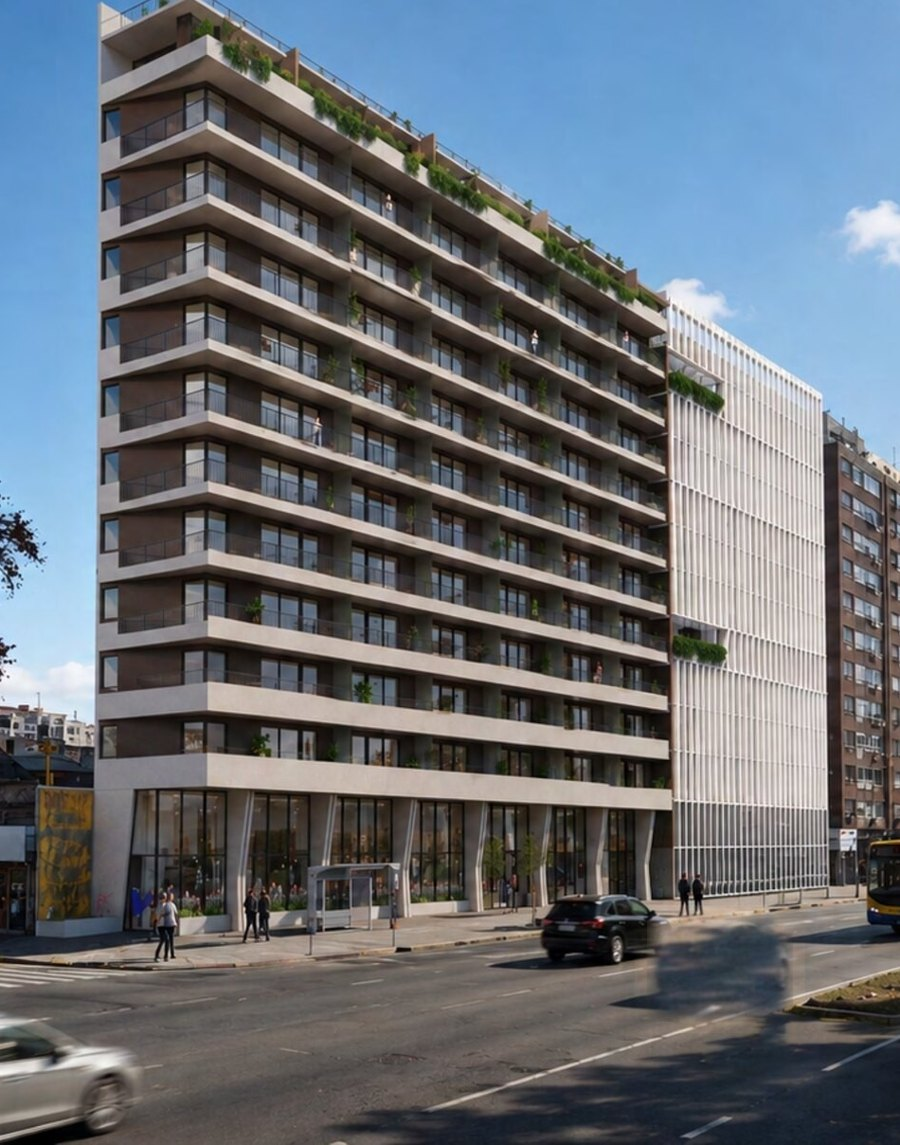
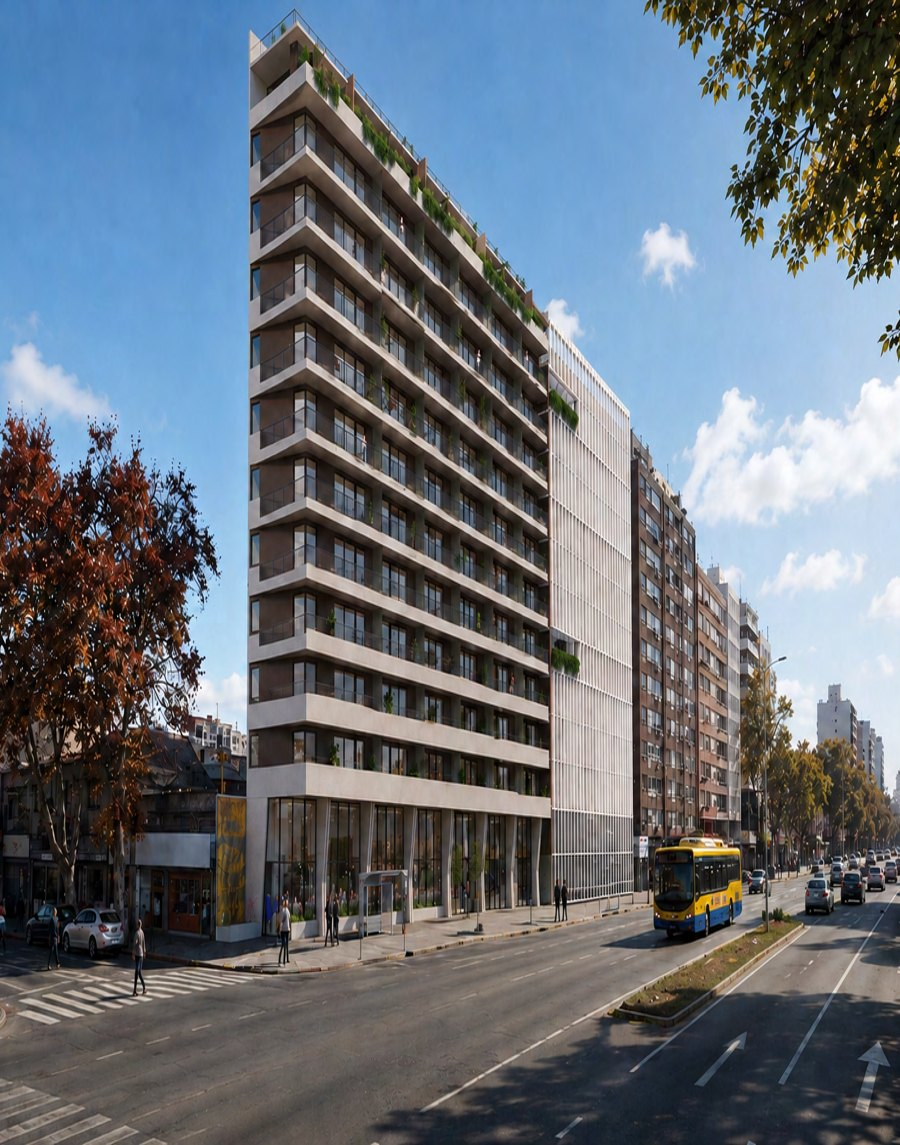
cambio

diff --git a/index.html b/index.html
@@ -25,6 +25,9 @@
               <li><a href="#proyecto" class="dropdown__link">Sobre AVIT</a></li>
               <li><a href="#ubicacion" class="dropdown__link">Ubicación</a></li>
               <li><a href="#arquitectura" class="dropdown__link">Arquitectura</a></li>
+              <li><a href="#hogar" class="dropdown__link">Hogar inteligente</a></li>
+              <li><a href="#sostenibilidad" class="dropdown__link">Certificación MAS</a></li>
+              <li><a href="#documentacion" class="dropdown__link">Plantas y precios</a></li>
             </ul>
           </li>
           <li class="nav__item nav__item--drop">
@@ -78,17 +81,18 @@
       <div class="reveal reveal--delay-1">
         <p class="tagline">El Proyecto</p>
         <h2 class="section__title">AVIT nace en uno de los principales corredores urbanos de Montevideo.</h2>
-        <p>Ubicado en la intersección de <strong>Avenida Italia y Francisco Simón</strong>, AVIT nace como una propuesta residencial contemporánea destinada a quienes buscan vivir o invertir en uno de los principales corredores urbanos de Montevideo.</p>
-        <p>El proyecto combina diseño arquitectónico moderno, espacios comunes de alto nivel, locales comerciales y excelentes conexiones con los principales centros educativos, sanitarios y comerciales de la ciudad.</p>
-        <p>Con <strong>43 metros de frente sobre Avenida Italia</strong>, maximiza su presencia urbana con una mayor cantidad de unidades que disfrutan de vistas abiertas y una conexión privilegiada con el entorno.</p>
-        <p><strong>Finalización de obra 12/28.</strong></p>
+        <p>Ubicado en la intersección de Avenida Italia y Francisco Simón, AVIT nace como una propuesta residencial contemporánea para quienes buscan vivir o invertir en uno de los principales corredores urbanos de Montevideo.</p>
+        <p>El proyecto combina diseño arquitectónico moderno, espacios comunes de alto nivel, cafetería y una ubicación estratégica, con excelentes conexiones a centros educativos, sanitarios y comerciales que favorecen su demanda y facilidad de alquiler.</p>
+        <p>Desarrollado por Foquier Desarrollos, AVIT se apoya en una trayectoria orientada a la calidad constructiva, la planificación integral y la generación de valor sostenible para propietarios e inversores.</p>
+        <p>Con 43 metros de frente sobre Avenida Italia, maximiza su presencia urbana y ofrece una mayor cantidad de unidades con vistas abiertas y una conexión privilegiada con el entorno.</p>
+        <p>Finalización de obra 12/28.</p>
       </div>
     </div>
 
     <div class="container stats reveal">
       <div class="stat"><span class="stat__num" data-count="43">0</span><span class="stat__suffix">m</span><p class="stat__label">de frente sobre Av. Italia</p></div>
       <div class="stat"><span class="stat__num" data-count="13">0</span><span class="stat__suffix">niveles</span><p class="stat__label">con rooftop de amenities</p></div>
-      <div class="stat"><span class="stat__num" data-count="10">0</span><span class="stat__suffix">+</span><p class="stat__label">amenities de alto nivel</p></div>
+      <div class="stat"><span class="stat__num" data-count="11">0</span><span class="stat__suffix">+</span><p class="stat__label">amenities de alto nivel</p></div>
       <div class="stat"><span class="stat__num stat__num--text">12/28</span><p class="stat__label">finalización de obra</p></div>
     </div>
   </section>
@@ -104,17 +108,16 @@
   <section class="section section--teal" id="ubicacion">
     <div class="container grid-2">
       <figure class="map reveal">
-        <iframe src="https://www.google.com/maps?q=Av.+Italia+%26+Dr.+Francisco+Sim%C3%B3n,+Montevideo,+Uruguay&z=17&output=embed" title="Ubicación de AVIT: Av. Italia y Francisco Simón, Montevideo" loading="lazy" referrerpolicy="no-referrer-when-downgrade" allowfullscreen></iframe>
+        <iframe src="https://www.google.com/maps?q=-34.890420,-56.148870&z=18&output=embed" title="Ubicación de AVIT: Av. Italia y Francisco Simón, Montevideo" loading="lazy" referrerpolicy="no-referrer-when-downgrade" allowfullscreen></iframe>
       </figure>
       <div class="reveal reveal--delay-1">
         <h2 class="section__title section__title--onteal">Una ubicación estratégica que se convierte en uno de los grandes valores del proyecto.</h2>
-        <p><strong>AVIT</strong> se encuentra sobre Avenida Italia, uno de los ejes urbanos más importantes de Montevideo, con acceso inmediato a:</p>
+        <p>AVIT se encuentra en La Blanqueada / Parque Batlle sobre Avenida Italia, uno de los ejes urbanos más importantes de Montevideo, con acceso inmediato a:</p>
         <ul class="squares squares--onteal">
           <li>Parque Batlle</li>
-          <li>Tres Cruces</li>
           <li>Centros universitarios</li>
           <li>Hospitales y centros médicos</li>
-          <li>Terminales de transporte</li>
+          <li>Terminal Tres Cruces</li>
           <li>Centros comerciales</li>
           <li>Zona de oficinas</li>
         </ul>
@@ -146,6 +149,23 @@
     </div>
   </section>
 
+  <!-- ===== HOGAR INTELIGENTE ===== -->
+  <section class="section section--soft" id="hogar">
+    <div class="container grid-2 grid-2--media-first">
+      <figure class="media reveal">
+        <img src="assets/img/hogar-inteligente.jpg" alt="Cerradura electrónica inteligente en una unidad de AVIT" loading="lazy">
+      </figure>
+      <div class="reveal reveal--delay-1">
+        <p class="tagline">Hogar inteligente</p>
+        <h2 class="section__title">Un hogar inteligente diseñado para brindar mayor confort, seguridad y eficiencia a la vida cotidiana.</h2>
+        <p>Las unidades contarán con tecnología Wi-Fi para controlar la iluminación LED y crear diferentes escenas según las preferencias de cada residente, además de climatización mediante equipos de aire acondicionado Inverter.</p>
+        <p>Las unidades dispondrán de cerraduras electrónicas inteligentes con acceso por clave, huella, llave o aplicación, permitiendo gestionar los ingresos de forma práctica y segura.</p>
+        <p>El edificio contará con portería virtual y videovigilancia las 24 horas, los 365 días del año. El sistema incluirá monitoreo de accesos, atención remota, llegada asistida por cámaras, gestión de encomiendas y respuesta ante alertas.</p>
+        <p>Una propuesta tecnológica integral que combina comodidad, control y seguridad para disfrutar de una experiencia residencial más conectada.</p>
+      </div>
+    </div>
+  </section>
+
   <!-- ===== AMENITIES ===== -->
   <section class="section section--soft" id="amenities">
     <div class="container">
@@ -164,17 +184,18 @@
         <button class="amenity amenity--clickable reveal" data-img="assets/img/terraza.jpg" data-caption="Sky Plaza · Rooftop nivel 13"><img src="assets/icons/sky-plaza.png" alt="" loading="lazy"><p>Sky Plaza</p><span class="amenity__hint">Ver espacio</span></button>
         <button class="amenity amenity--clickable reveal" data-img="assets/img/cafeteria.jpg" data-caption="Cafetería · Planta baja"><img src="assets/icons/cafeteria.png" alt="" loading="lazy"><p>Cafetería</p><span class="amenity__hint">Ver espacio</span></button>
         <div class="amenity reveal"><img src="assets/icons/sala-juegos.png" alt="" loading="lazy"><p>Sala de Juegos</p></div>
+        <div class="amenity reveal"><img src="assets/icons/spa.png" alt="" loading="lazy"><p>SPA</p></div>
       </div>
 
       <div class="grid-2 amenities-text">
         <div class="reveal">
           <h3 class="section__subtitle">Todo lo que necesitás para vivir con más comodidad, conexión y disfrute.</h3>
           <p>AVIT incorpora una propuesta integral de amenities pensada para ampliar la experiencia de vivir el edificio y convertir sus espacios comunes en una extensión del hogar.</p>
-          <p>En planta baja, la <strong>cafetería integrada</strong>, el <strong>gimnasio interior equipado</strong>, los <strong>garajes</strong> y el <strong>bike parking</strong> acompañan la rutina diaria con comodidad, practicidad y conexión con la ciudad.</p>
+          <p>En planta baja, la cafetería integrada, el gimnasio interior equipado, los garajes y el bike parking acompañan la rutina diaria con comodidad, practicidad y conexión con la ciudad.</p>
         </div>
         <div class="reveal reveal--delay-1">
-          <p>En el <strong>nivel 1</strong>, el cowork y la sala de juegos ofrecen espacios flexibles para trabajar, estudiar, reunirse o disfrutar de momentos de entretenimiento.</p>
-          <p>En el <strong>nivel 13</strong>, el rooftop reúne dos barbacoas equipadas, laundry, pet shower, Sky Plaza y gimnasio exterior, generando un entorno ideal para compartir, entrenar, relajarse y disfrutar de vistas abiertas. Una propuesta completa que suma bienestar, funcionalidad y valor al proyecto.</p>
+          <p>En el nivel 1, el cowork y la sala de juegos ofrecen espacios flexibles para trabajar, estudiar, reunirse o disfrutar de momentos de entretenimiento.</p>
+          <p>En el nivel 13, el rooftop reúne dos barbacoas equipadas, laundry, pet shower, SPA, espacio Sky Plaza y gimnasio exterior, generando un entorno ideal para compartir, entrenar, relajarse y disfrutar de vistas abiertas. Una propuesta completa que suma bienestar, funcionalidad y valor al proyecto.</p>
         </div>
       </div>
     </div>
@@ -198,6 +219,23 @@
     </div>
   </section>
 
+  <!-- ===== CERTIFICACION MAS ===== -->
+  <section class="section" id="sostenibilidad">
+    <div class="container grid-2">
+      <div class="reveal">
+        <p class="tagline">Sostenibilidad</p>
+        <h2 class="section__title">Certificación MAS: sostenibilidad que agrega valor, diseño, eficiencia y bienestar.</h2>
+        <p>En el marco de su política de Responsabilidad Social Empresarial, Foquier Desarrollos impulsa para AVIT la certificación MAS (Medio Ambiente, Arquitectura y Sociedad) otorgada por el LATU.</p>
+        <p>Esta certificación promueve buenas prácticas en las etapas de diseño y construcción, mediante metodologías basadas en estándares internacionales y adaptadas al mercado inmobiliario uruguayo. Su aplicación busca superar la normativa vigente en eficiencia energética, ahorro de agua, bienestar, gestión e innovación.</p>
+        <p>Para propietarios e inversores, la certificación MAS representa una mayor valorización del activo y mejores condiciones de venta o alquiler. Además, contribuye a reducir costos operativos y gastos comunes, creando espacios más saludables, eficientes y sostenibles.</p>
+        <p><a href="https://certificacionmas.com.uy/" target="_blank" rel="noopener">Conocé más sobre la certificación MAS →</a></p>
+      </div>
+      <figure class="media reveal reveal--delay-1">
+        <img src="assets/img/certificacion-mas.jpg" alt="Fachada de AVIT sobre Avenida Italia — Certificación MAS" loading="lazy">
+      </figure>
+    </div>
+  </section>
+
   <!-- ===== INVERSION ===== -->
   <section class="section" id="inversion">
     <div class="container">
@@ -210,7 +248,7 @@
         <article class="benefit reveal"><h3>Exoneración de ITP</h3><p>Ahorro directo del 2% del valor catastral en la primera compra.</p></article>
         <article class="benefit reveal reveal--delay-1"><h3>Impuesto al Patrimonio</h3><p>Exento por una década entera.</p></article>
         <article class="benefit reveal reveal--delay-2"><h3>Exoneración de IRPF / IRNR</h3><p>Del 100% si el apartamento se destina al mercado de alquileres.</p></article>
-        <article class="benefit reveal reveal--delay-3"><h3>Exoneración del IVA</h3><p>Reducción o eliminación en la primera venta de las unidades.</p></article>
+        <article class="benefit reveal reveal--delay-3"><h3>Exoneración del IVA</h3><p>Eliminación en la primera venta de las unidades.</p></article>
       </div>
     </div>
   </section>
@@ -232,9 +270,10 @@
       <div class="reveal">
         <p class="tagline">Sobre Nosotros</p>
         <h2 class="section__title">Trayectoria consolidada en el mercado inmobiliario de Montevideo.</h2>
-        <p>Foquier Desarrollos cuenta con una trayectoria consolidada en el mercado inmobiliario de Montevideo, destacándose por la calidad constructiva, el diseño arquitectónico y la generación de valor para propietarios e inversores.</p>
-        <p>Su experiencia se refleja en proyectos anteriores como <strong>CN1722</strong>, <strong>BV2025</strong> y <strong>U3031</strong>, que consolidan su presencia en distintos puntos clave de la ciudad.</p>
-        <p>Con ese respaldo, <strong>AVIT</strong> se presenta como una nueva propuesta residencial sobre Avenida Italia, pensada para vivir o invertir en un proyecto contemporáneo, estratégico y con alto potencial de valorización.</p>
+        <p>Foquier Desarrollos cuenta con 14 años de trayectoria consolidada en el mercado inmobiliario de Montevideo, destacándose por la calidad constructiva y el diseño arquitectónico.</p>
+        <p>Todos sus proyectos fueron entregados en la fecha prometida, reafirmando su compromiso con el cumplimiento y la confianza de sus clientes.</p>
+        <p>Con más de 400 unidades comercializadas, su experiencia se refleja en proyectos anteriores como <a href="https://foquier.com.uy/cn1722/" target="_blank" rel="noopener">CN1722</a>, <a href="https://foquier.com.uy/bv2025/" target="_blank" rel="noopener">BV2025</a>, <a href="https://foquier.com.uy/bv2031/" target="_blank" rel="noopener">BV2031</a> y <a href="https://foquier.com.uy/u3031/" target="_blank" rel="noopener">U3031</a>, que consolidan su presencia en distintos puntos clave de la ciudad.</p>
+        <p>Con ese respaldo, AVIT se presenta como una nueva propuesta residencial pensada para vivir o invertir en un proyecto contemporáneo, estratégico y con alto potencial de valorización.</p>
       </div>
       <figure class="media reveal reveal--delay-1">
         <img src="assets/img/obra-equipo.jpg" alt="Equipo de Foquier Desarrollos en obra" loading="lazy">

diff --git a/css/styles.css b/css/styles.css
@@ -80,12 +80,14 @@ button { font-family: var(--font); background: none; border: 0; cursor: pointer;
 .header__logo .logo-color { display: none; }
 
 .header.is-solid {
-  background: var(--white);
-  padding: .65rem 0;
-  box-shadow: 0 6px 24px rgba(0, 40, 37, .08);
+  background: transparent;
+  padding: .8rem 0;
+  box-shadow: none;
 }
 .header.is-solid .logo-blanco { display: none; }
 .header.is-solid .logo-color { display: block; }
+/* links legibles cuando el header transparente pasa sobre secciones claras */
+.header.is-solid .nav__link { text-shadow: none; }
 
 /* --- Nav --- */
 .nav { display: flex; align-items: center; gap: 1.6rem; }
@@ -105,6 +107,8 @@ button { font-family: var(--font); background: none; border: 0; cursor: pointer;
 .header.is-solid .nav__link { color: var(--ink); }
 .nav__link:hover { color: var(--teal); }
 .header:not(.is-solid) .nav__link:hover { color: rgba(255,255,255,.75); }
+/* sombra sutil para legibilidad de links blancos sobre el header transparente */
+.header:not(.is-solid) .nav__link { text-shadow: 0 1px 10px rgba(0, 0, 0, .28); }
 
 .chev {
   width: 7px; height: 7px;
@@ -811,49 +815,67 @@ button { font-family: var(--font); background: none; border: 0; cursor: pointer;
 }
 
 /* ==========================================================
-   MOBILE: imagen arriba + contenido sobre blanco
+   MOBILE: texto sobre la imagen (overlay), header transparente
    ========================================================== */
 @media (max-width: 860px) {
-  /* header siempre solido en mobile */
-  .header {
-    background: var(--white);
-    padding: .6rem 0;
-    box-shadow: 0 6px 24px rgba(0, 40, 37, .08);
-  }
+  /* header transparente, burger oscuro sobre el cielo claro */
+  .header { background: transparent; box-shadow: none; padding: .7rem 0; }
   .burger span { background: var(--ink); }
 
   .hero {
-    display: block;
-    min-height: auto;
-    background: var(--white);
-    padding: 58px 0 2.4rem;
+    display: flex;
+    align-items: flex-end;
+    min-height: 90svh;
+    padding: 0;
+    background: none;
+    overflow: hidden;
   }
   .hero__bg {
-    position: static;
-    inset: auto;
+    position: absolute;
+    inset: 0;
     will-change: auto;
     transform: none !important;
+    z-index: 0;
   }
   .hero__bg img {
     width: 100%;
-    height: auto;
-    object-fit: contain;
+    height: 100%;
+    object-fit: cover;
+    /* leve corrimiento a la derecha para dejar el edificio libre */
+    object-position: 60% 30%;
     animation: none;
     transform: none;
   }
-  .hero__overlay { display: none; }
+  /* velo claro: arriba para el header, abajo para que el texto negro lea */
+  .hero__overlay {
+    display: block;
+    position: absolute;
+    inset: 0;
+    z-index: 1;
+    background: linear-gradient(180deg,
+      rgba(255,255,255,.55) 0%,
+      rgba(255,255,255,0) 20%,
+      rgba(255,255,255,0) 44%,
+      rgba(255,255,255,.72) 70%,
+      rgba(255,255,255,.90) 100%);
+  }
   .hero__scroll { display: none; }
 
-  /* contenido sobre blanco, colores de marca */
-  .hero__content { padding-top: 1.5rem; }
+  .hero__content {
+    position: relative;
+    z-index: 2;
+    width: 100%;
+    padding: 0 6% 2.2rem;
+  }
   .hero__avit--blanco, .hero__logo-inline--blanco { display: none; }
   .hero__avit--teal { display: block; height: 30px; }
   .hero__logo-inline--teal { display: block; height: 48px; }
 
   /* espaciados iguales: AVIT -> texto -> logo Foquier */
-  .hero__title { margin-top: 16px; color: var(--ink); font-size: 1.4rem; font-weight: 600; }
-  .hero__title strong { color: var(--teal); }
+  .hero__title { margin-top: 16px; color: var(--ink); font-size: 1.4rem; font-weight: 700; opacity: 1; animation: none; }
+  .hero__title strong { color: #111; }            /* Av. Italia en negro */
   .hero__logo-inline { margin-top: 16px; }
+  .hero__avit, .hero__ctas { opacity: 1; animation: none; }
 
   /* botones escalados a la jerarquia de los logos */
   .hero__ctas { margin-top: 1.5rem; gap: .7rem; }